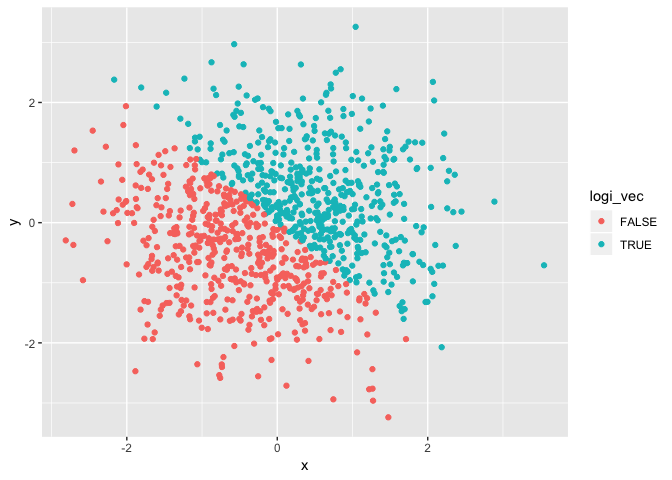
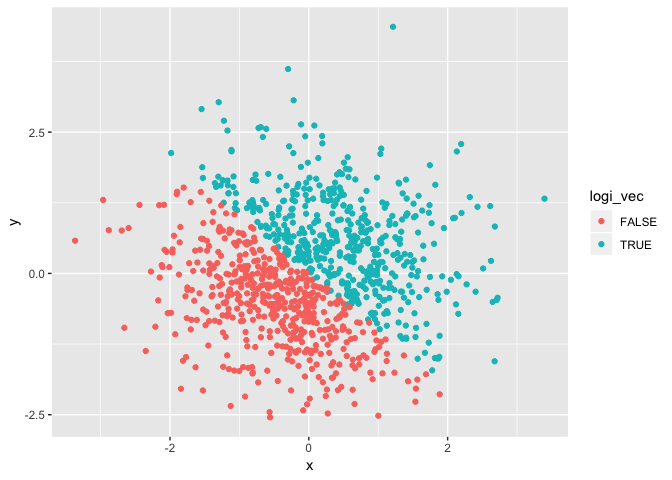
Trying our text formatting

diff --git a/p8105_hw1_jz3036.md b/p8105_hw1_jz3036.md
@@ -9,6 +9,7 @@ Problem 1
 =========
 
 Create a data frame comprised of:
+---------------------------------
 
 -   A random sample of size 10 from a uniform\[0, 5\] distribution
 
@@ -17,8 +18,8 @@ samp = runif(10, min=0, max=5)
 samp
 ```
 
-    ##  [1] 2.2119114 4.6978334 4.1624302 4.6153049 4.3668306 1.5719855 4.0346855
-    ##  [8] 3.2841760 3.1782789 0.3860867
+    ##  [1] 3.1662959 4.9935737 2.8237355 1.0072704 2.3302470 2.0069647 3.5816292
+    ##  [8] 2.4677951 0.8383696 2.6838050
 
 -   A logical vector indicating whether elements of the sample are greater than 2
 
@@ -27,7 +28,7 @@ logi_vec = samp > 2
 logi_vec
 ```
 
-    ##  [1]  TRUE  TRUE  TRUE  TRUE  TRUE FALSE  TRUE  TRUE  TRUE FALSE
+    ##  [1]  TRUE  TRUE  TRUE FALSE  TRUE  TRUE  TRUE  TRUE FALSE  TRUE
 
 -   A (length-10) character vector
 
@@ -50,17 +51,18 @@ fact_vec
     ##  [8] factor    vector    :)       
     ## Levels: :) ! a factor hello is length-10 there this vector
 
--   Try to take the mean of each variable in your dataframe. What works and what doesn’t? Why?
+Try to take the mean of each variable in your dataframe. What works and what doesn’t? Why?
+------------------------------------------------------------------------------------------
 
-the mean() function works just fine for numeric values:
+-   the mean() function works just fine for numeric values:
 
 ``` r
 mean(samp)
 ```
 
-    ## [1] 3.250952
+    ## [1] 2.589969
 
-the mean() function even works for logical vectors, the result reflect the proportion of True in the vector:
+-   the mean() function even works for logical vectors, the result reflect the proportion of True in the vector:
 
 ``` r
 mean(logi_vec)
@@ -68,7 +70,7 @@ mean(logi_vec)
 
     ## [1] 0.8
 
-the mean() function could not work for charactor vector and returned Missing Value, since it makes no sense to count mean of charactors:
+-   the mean() function could not work for charactor vector and returned Missing Value, since it makes no sense to count mean of charactors:
 
 ``` r
 mean(char_vec)
@@ -79,7 +81,7 @@ mean(char_vec)
 
     ## [1] NA
 
-similarly, the mean() function could not work for charactor vector and returned Missing Value:
+-   similarly, the mean() function could not work for charactor vector and returned Missing Value:
 
 ``` r
 mean(fact_vec)
@@ -89,6 +91,9 @@ mean(fact_vec)
     ## returning NA
 
     ## [1] NA
+
+Write a code chunk that applies the as.numeric function to the logical, character, and factor variables (please show this chunk but not the output). What happens?
+------------------------------------------------------------------------------------------------------------------------------------------------------------------
 
 -   As shown in the chunk below, this is to try using as.numeric() function to the logical, character, and factor variables.
     -   For logic vector, as.numeric() function converts "True" into 1, "False" into 0.
@@ -101,9 +106,11 @@ as.numeric(char_vec)
 as.numeric(fact_vec)
 ```
 
--   Convert your character variable from character to factor to numeric. What happens?
-    -   as.factor() function successfully converted character vector into factor, and automatically set the level to each character.
-    -   then the as.numeric() function converted the new factor vector into numeric numbers according to the level of each character.
+Convert your character variable from character to factor to numeric. What happens?
+----------------------------------------------------------------------------------
+
+-   as.factor() function successfully converted character vector into factor, and automatically set the level to each character.
+-   then the as.numeric() function converted the new factor vector into numeric numbers according to the level of each character.
 
 ``` r
 new_fact_vec = as.factor(char_vec)
@@ -120,9 +127,11 @@ as.numeric(new_fact_vec)
 
     ##  [1]  5  8  2  9  6  3  7  4 10  1
 
--   convert your factor variable from factor to character to numeric. What happens?
-    -   as.character() function successfully concerted factor vertor into character vector.
-    -   While as.numeric() function still failed and returned missing value.
+convert your factor variable from factor to character to numeric. What happens?
+-------------------------------------------------------------------------------
+
+    * as.character() function successfully concerted factor vertor into character vector.
+    * While as.numeric() function still failed and returned missing value.
 
 ``` r
 new_char_vec = as.character(fact_vec)
@@ -176,7 +185,10 @@ nume_vec = as.numeric(logi_vec)
 fact_vec = as.factor(logi_vec)
 ```
 
--   Vector x contains 1000 numbers randomly generated from a standard Normal distribution. The mean of x is -0.0017195, and the median is 0.0121814. The proportion of the 'TRUE' in the factor vector is 0.509.
+Write a short description of your vector using inline R code, including: \* the size of the dataset \* the mean and median of x \* the proportion of cases for which the logical vector is TRUE
+-----------------------------------------------------------------------------------------------------------------------------------------------------------------------------------------------
+
+-   Vector x contains 1000 numbers randomly generated from a standard Normal distribution. The mean of x is -0.0055359, and the median is -0.0302457. The proportion of the 'TRUE' in the factor vector is 0.502.
 
 Make a scatterplot of y vs x; color points using the logical variable
 ---------------------------------------------------------------------
